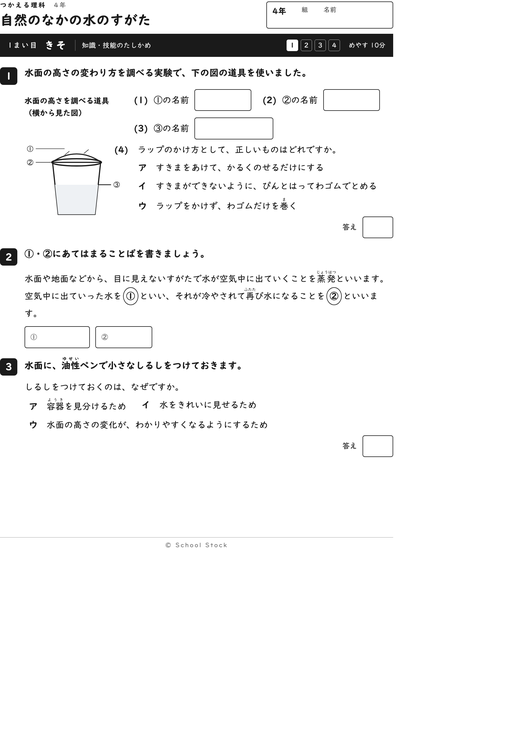
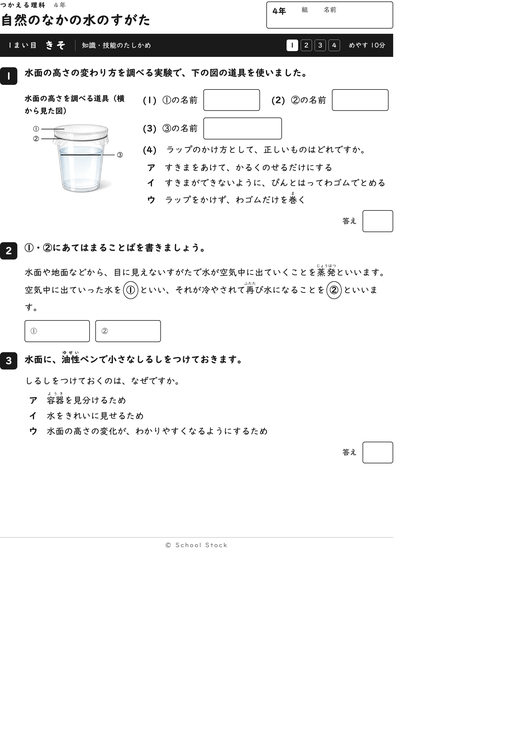
つかえる棚に9単元を追加しました（全65単元から74単元へ）
つかえる算数3年に「表とグラフ」を、つかえる国語4年に8単元を追加しました。
国語4年は、読むこと、書くこと、話すこと・聞くこと、言葉のきまりの順に
ならべています。教科書の教材名は使わず、学習指導要領の指導事項から
単元を立てています。
あわせて、図を直した14単元のサムネイルを差しかえました。

diff --git a/prints/tsukaeru/index.html b/prints/tsukaeru/index.html
@@ -167,9 +167,9 @@
       <div class="step"><span class="sn">4</span><b>あらわす</b><small>誤答の分析と、指定語句をつかった記述。</small></div>
     </div>
     <div class="meta">
-      <span><b>全65単元</b>（各4まい＋解答4枚・計8枚）</span>
-      <span>算数 25（3年 3／4年 13／5年 8／6年 1）</span>
-      <span>国語 7（1年 1／2年 1／3年 1／4年 2／5年 1／6年 1）</span>
+      <span><b>全74単元</b>（各4まい＋解答4枚・計8枚）</span>
+      <span>算数 26（3年 4／4年 13／5年 8／6年 1）</span>
+      <span>国語 15（1年 1／2年 1／3年 1／4年 10／5年 1／6年 1）</span>
       <span>理科 9（3年 1／4年 6／5年 2）</span>
       <span>社会 8（4年 4／5年 4・先生向け資料編つき）</span>
       <span>数学 16（中3 8／中2 5／中1 3）</span>
@@ -186,13 +186,13 @@
       <span class="fl">学年</span>
       <button class="fbtn on" data-band="all">すべて</button><button class="fbtn" data-band="g1">1年</button><button class="fbtn" data-band="g2">2年</button><button class="fbtn" data-band="g3">3年</button><button class="fbtn" data-band="g4">4年</button><button class="fbtn" data-band="g5">5年</button><button class="fbtn" data-band="g6">6年</button><button class="fbtn" data-band="c1">中1</button><button class="fbtn" data-band="c2">中2</button><button class="fbtn" data-band="c3">中3</button>
     </div>
-    <p class="count"><b id="shown">65</b> 単元を表示中</p>
+    <p class="count"><b id="shown">74</b> 単元を表示中</p>
   </div>
 
   <section data-sec id="sec-sansu-g3">
     <div class="sec-head"><span class="sec-no">01</span><span class="sec-label">MATH</span></div>
     <h2>つかえる算数　3年</h2>
-    <p class="sec-note"><span class="cnt">全3単元</span>　啓林館の配当順（長さ→あまりのあるわり算→重さ）。長さと重さは、地図やはかりの図から読み取る形にしています。</p>
+    <p class="sec-note"><span class="cnt">全4単元</span>　啓林館の配当順にならべています。長さと重さは地図やはかりの図から、表とグラフは二次元の表から読み取る形にしています。</p>
     <div class="secdl"><span class="lab">この学年をまい目ごとに</span><a href="/School_Stock_files/prints/tsukaeru/pdf/tsukaeru_sansu_g3_mai1.pdf" download>1まい目だけ</a><a href="/School_Stock_files/prints/tsukaeru/pdf/tsukaeru_sansu_g3_mai2.pdf" download>2まい目だけ</a><a href="/School_Stock_files/prints/tsukaeru/pdf/tsukaeru_sansu_g3_mai3.pdf" download>3まい目だけ</a><a href="/School_Stock_files/prints/tsukaeru/pdf/tsukaeru_sansu_g3_mai4.pdf" download>4まい目だけ</a><small>その学年の全単元の◯まい目を、問題＋解答の順に1本にまとめたものです。</small></div>
     <div class="grid">
 <div class="card" data-subj="sansu" data-band="g3" data-hay="長さ まきじゃく km 道のり きょり 地図 3年 つかえる算数">
@@ -217,6 +217,18 @@
       <a class="dl" href="/School_Stock_files/prints/tsukaeru/pdf/tsukaeru_s3_amari.pdf" download><svg viewBox="0 0 17 17" fill="none" aria-hidden="true"><path d="M8.5 2v8m0 0L5 6.7M8.5 10l3.5-3.3M2.5 13.5h12" stroke="currentColor" stroke-width="2" stroke-linecap="round" stroke-linejoin="round"/></svg>全部</a>
     </div>
 <div class="dls"><span class="lab">分けて</span><a href="/School_Stock_files/prints/tsukaeru/pdf/tsukaeru_s3_amari_mondai.pdf" download title="問題面4枚">問題だけ</a><a href="/School_Stock_files/prints/tsukaeru/pdf/tsukaeru_s3_amari_kotae.pdf" download title="解答面4枚">解答だけ</a><span class="sep"></span><span class="lab">まい目</span><a href="/School_Stock_files/prints/tsukaeru/pdf/tsukaeru_s3_amari_m1.pdf" download title="1まい目（問題＋解答の2枚）">1</a><a href="/School_Stock_files/prints/tsukaeru/pdf/tsukaeru_s3_amari_m2.pdf" download title="2まい目（問題＋解答の2枚）">2</a><a href="/School_Stock_files/prints/tsukaeru/pdf/tsukaeru_s3_amari_m3.pdf" download title="3まい目（問題＋解答の2枚）">3</a><a href="/School_Stock_files/prints/tsukaeru/pdf/tsukaeru_s3_amari_m4.pdf" download title="4まい目（問題＋解答の2枚）">4</a></div>
+  </div>
+</div>
+<div class="card" data-subj="sansu" data-band="g3" data-hay="表とグラフ 二次元の表 ぼうグラフ 目もり 合計 整理 3年 つかえる算数">
+  <a class="th" href="/School_Stock_files/prints/tsukaeru/pdf/tsukaeru_s3_hyougraph.pdf"><div class="thumb"><img loading="lazy" src="thumb/tsukaeru_s3_hyougraph.png" alt="表とグラフ"></div></a>
+  <div class="b">
+    <div class="tags"><span class="tag type">算数 3年</span><span class="tag">表・ぼうグラフ</span></div>
+    <a class="tt" href="/School_Stock_files/prints/tsukaeru/pdf/tsukaeru_s3_hyougraph.pdf">表とグラフ</a>
+    <div class="acts">
+      <span class="more">4まい＋解答（8枚）</span>
+      <a class="dl" href="/School_Stock_files/prints/tsukaeru/pdf/tsukaeru_s3_hyougraph.pdf" download><svg viewBox="0 0 17 17" fill="none" aria-hidden="true"><path d="M8.5 2v8m0 0L5 6.7M8.5 10l3.5-3.3M2.5 13.5h12" stroke="currentColor" stroke-width="2" stroke-linecap="round" stroke-linejoin="round"/></svg>全部</a>
+    </div>
+<div class="dls"><span class="lab">分けて</span><a href="/School_Stock_files/prints/tsukaeru/pdf/tsukaeru_s3_hyougraph_mondai.pdf" download title="問題面4枚">問題だけ</a><a href="/School_Stock_files/prints/tsukaeru/pdf/tsukaeru_s3_hyougraph_kotae.pdf" download title="解答面4枚">解答だけ</a><span class="sep"></span><span class="lab">まい目</span><a href="/School_Stock_files/prints/tsukaeru/pdf/tsukaeru_s3_hyougraph_m1.pdf" download title="1まい目（問題＋解答の2枚）">1</a><a href="/School_Stock_files/prints/tsukaeru/pdf/tsukaeru_s3_hyougraph_m2.pdf" download title="2まい目（問題＋解答の2枚）">2</a><a href="/School_Stock_files/prints/tsukaeru/pdf/tsukaeru_s3_hyougraph_m3.pdf" download title="3まい目（問題＋解答の2枚）">3</a><a href="/School_Stock_files/prints/tsukaeru/pdf/tsukaeru_s3_hyougraph_m4.pdf" download title="4まい目（問題＋解答の2枚）">4</a></div>
   </div>
 </div>
 <div class="card" data-subj="sansu" data-band="g3" data-hay="重さ はかり g kg t 目もり ランドセル 3年 つかえる算数">
@@ -584,7 +596,7 @@
   <section data-sec id="sec-kokugo-g4">
     <div class="sec-head"><span class="sec-no">08</span><span class="sec-label">JAPANESE</span></div>
     <h2>つかえる国語　4年</h2>
-    <p class="sec-note"><span class="cnt">全2単元</span>　考えと、それを支える理由や事例のつながりを読みます。中心となる語や文を見つけて要約するところまで。</p>
+    <p class="sec-note"><span class="cnt">全10単元</span>　読むこと、書くこと、話すこと・聞くこと、言葉のきまりの順にならべています。教科書の教材名は使わず、学習指導要領の指導事項から単元を立てています。</p>
     <div class="secdl"><span class="lab">この学年をまい目ごとに</span><a href="/School_Stock_files/prints/tsukaeru/pdf/tsukaeru_kokugo_g4_mai1.pdf" download>1まい目だけ</a><a href="/School_Stock_files/prints/tsukaeru/pdf/tsukaeru_kokugo_g4_mai2.pdf" download>2まい目だけ</a><a href="/School_Stock_files/prints/tsukaeru/pdf/tsukaeru_kokugo_g4_mai3.pdf" download>3まい目だけ</a><a href="/School_Stock_files/prints/tsukaeru/pdf/tsukaeru_kokugo_g4_mai4.pdf" download>4まい目だけ</a><small>その学年の全単元の◯まい目を、問題＋解答の順に1本にまとめたものです。</small></div>
     <div class="grid">
 <div class="card" data-subj="kokugo" data-band="g4" data-hay="理由や事例をとらえる なぜなら たとえば 発表原こう 4年 つかえる国語">
@@ -609,6 +621,102 @@
       <a class="dl" href="/School_Stock_files/prints/tsukaeru/pdf/tsukaeru_k4_youyaku.pdf" download><svg viewBox="0 0 17 17" fill="none" aria-hidden="true"><path d="M8.5 2v8m0 0L5 6.7M8.5 10l3.5-3.3M2.5 13.5h12" stroke="currentColor" stroke-width="2" stroke-linecap="round" stroke-linejoin="round"/></svg>全部</a>
     </div>
 <div class="dls"><span class="lab">分けて</span><a href="/School_Stock_files/prints/tsukaeru/pdf/tsukaeru_k4_youyaku_mondai.pdf" download title="問題面4枚">問題だけ</a><a href="/School_Stock_files/prints/tsukaeru/pdf/tsukaeru_k4_youyaku_kotae.pdf" download title="解答面4枚">解答だけ</a><span class="sep"></span><span class="lab">まい目</span><a href="/School_Stock_files/prints/tsukaeru/pdf/tsukaeru_k4_youyaku_m1.pdf" download title="1まい目（問題＋解答の2枚）">1</a><a href="/School_Stock_files/prints/tsukaeru/pdf/tsukaeru_k4_youyaku_m2.pdf" download title="2まい目（問題＋解答の2枚）">2</a><a href="/School_Stock_files/prints/tsukaeru/pdf/tsukaeru_k4_youyaku_m3.pdf" download title="3まい目（問題＋解答の2枚）">3</a><a href="/School_Stock_files/prints/tsukaeru/pdf/tsukaeru_k4_youyaku_m4.pdf" download title="4まい目（問題＋解答の2枚）">4</a></div>
+  </div>
+</div>
+<div class="card" data-subj="kokugo" data-band="g4" data-hay="だんらくのつながりをとらえる 段落 はじめ 中 おわり 組み立て表 説明文 4年 つかえる国語">
+  <a class="th" href="/School_Stock_files/prints/tsukaeru/pdf/tsukaeru_k4_danraku.pdf"><div class="thumb"><img loading="lazy" src="thumb/tsukaeru_k4_danraku.png" alt="だんらくのつながりをとらえる"></div></a>
+  <div class="b">
+    <div class="tags"><span class="tag type">国語 4年</span><span class="tag">段落の関係</span></div>
+    <a class="tt" href="/School_Stock_files/prints/tsukaeru/pdf/tsukaeru_k4_danraku.pdf">だんらくのつながりをとらえる</a>
+    <div class="acts">
+      <span class="more">4まい＋解答（8枚）</span>
+      <a class="dl" href="/School_Stock_files/prints/tsukaeru/pdf/tsukaeru_k4_danraku.pdf" download><svg viewBox="0 0 17 17" fill="none" aria-hidden="true"><path d="M8.5 2v8m0 0L5 6.7M8.5 10l3.5-3.3M2.5 13.5h12" stroke="currentColor" stroke-width="2" stroke-linecap="round" stroke-linejoin="round"/></svg>全部</a>
+    </div>
+<div class="dls"><span class="lab">分けて</span><a href="/School_Stock_files/prints/tsukaeru/pdf/tsukaeru_k4_danraku_mondai.pdf" download title="問題面4枚">問題だけ</a><a href="/School_Stock_files/prints/tsukaeru/pdf/tsukaeru_k4_danraku_kotae.pdf" download title="解答面4枚">解答だけ</a><span class="sep"></span><span class="lab">まい目</span><a href="/School_Stock_files/prints/tsukaeru/pdf/tsukaeru_k4_danraku_m1.pdf" download title="1まい目（問題＋解答の2枚）">1</a><a href="/School_Stock_files/prints/tsukaeru/pdf/tsukaeru_k4_danraku_m2.pdf" download title="2まい目（問題＋解答の2枚）">2</a><a href="/School_Stock_files/prints/tsukaeru/pdf/tsukaeru_k4_danraku_m3.pdf" download title="3まい目（問題＋解答の2枚）">3</a><a href="/School_Stock_files/prints/tsukaeru/pdf/tsukaeru_k4_danraku_m4.pdf" download title="4まい目（問題＋解答の2枚）">4</a></div>
+  </div>
+</div>
+<div class="card" data-subj="kokugo" data-band="g4" data-hay="行動や様子から気持ちを読む 気持ち 情景 人物 物語 変化 4年 つかえる国語">
+  <a class="th" href="/School_Stock_files/prints/tsukaeru/pdf/tsukaeru_k4_kimochi.pdf"><div class="thumb"><img loading="lazy" src="thumb/tsukaeru_k4_kimochi.png" alt="行動や様子から気持ちを読む"></div></a>
+  <div class="b">
+    <div class="tags"><span class="tag type">国語 4年</span><span class="tag">気持ち・情景</span></div>
+    <a class="tt" href="/School_Stock_files/prints/tsukaeru/pdf/tsukaeru_k4_kimochi.pdf">行動や様子から気持ちを読む</a>
+    <div class="acts">
+      <span class="more">4まい＋解答（8枚）</span>
+      <a class="dl" href="/School_Stock_files/prints/tsukaeru/pdf/tsukaeru_k4_kimochi.pdf" download><svg viewBox="0 0 17 17" fill="none" aria-hidden="true"><path d="M8.5 2v8m0 0L5 6.7M8.5 10l3.5-3.3M2.5 13.5h12" stroke="currentColor" stroke-width="2" stroke-linecap="round" stroke-linejoin="round"/></svg>全部</a>
+    </div>
+<div class="dls"><span class="lab">分けて</span><a href="/School_Stock_files/prints/tsukaeru/pdf/tsukaeru_k4_kimochi_mondai.pdf" download title="問題面4枚">問題だけ</a><a href="/School_Stock_files/prints/tsukaeru/pdf/tsukaeru_k4_kimochi_kotae.pdf" download title="解答面4枚">解答だけ</a><span class="sep"></span><span class="lab">まい目</span><a href="/School_Stock_files/prints/tsukaeru/pdf/tsukaeru_k4_kimochi_m1.pdf" download title="1まい目（問題＋解答の2枚）">1</a><a href="/School_Stock_files/prints/tsukaeru/pdf/tsukaeru_k4_kimochi_m2.pdf" download title="2まい目（問題＋解答の2枚）">2</a><a href="/School_Stock_files/prints/tsukaeru/pdf/tsukaeru_k4_kimochi_m3.pdf" download title="3まい目（問題＋解答の2枚）">3</a><a href="/School_Stock_files/prints/tsukaeru/pdf/tsukaeru_k4_kimochi_m4.pdf" download title="4まい目（問題＋解答の2枚）">4</a></div>
+  </div>
+</div>
+<div class="card" data-subj="kokugo" data-band="g4" data-hay="相手や目的に合わせて手紙を書く 手紙 お礼 下書き 推こう ていねいな言い方 4年 つかえる国語">
+  <a class="th" href="/School_Stock_files/prints/tsukaeru/pdf/tsukaeru_k4_tegami.pdf"><div class="thumb"><img loading="lazy" src="thumb/tsukaeru_k4_tegami.png" alt="相手や目的に合わせて手紙を書く"></div></a>
+  <div class="b">
+    <div class="tags"><span class="tag type">国語 4年</span><span class="tag">手紙・推こう</span></div>
+    <a class="tt" href="/School_Stock_files/prints/tsukaeru/pdf/tsukaeru_k4_tegami.pdf">相手や目的に合わせて手紙を書く</a>
+    <div class="acts">
+      <span class="more">4まい＋解答（8枚）</span>
+      <a class="dl" href="/School_Stock_files/prints/tsukaeru/pdf/tsukaeru_k4_tegami.pdf" download><svg viewBox="0 0 17 17" fill="none" aria-hidden="true"><path d="M8.5 2v8m0 0L5 6.7M8.5 10l3.5-3.3M2.5 13.5h12" stroke="currentColor" stroke-width="2" stroke-linecap="round" stroke-linejoin="round"/></svg>全部</a>
+    </div>
+<div class="dls"><span class="lab">分けて</span><a href="/School_Stock_files/prints/tsukaeru/pdf/tsukaeru_k4_tegami_mondai.pdf" download title="問題面4枚">問題だけ</a><a href="/School_Stock_files/prints/tsukaeru/pdf/tsukaeru_k4_tegami_kotae.pdf" download title="解答面4枚">解答だけ</a><span class="sep"></span><span class="lab">まい目</span><a href="/School_Stock_files/prints/tsukaeru/pdf/tsukaeru_k4_tegami_m1.pdf" download title="1まい目（問題＋解答の2枚）">1</a><a href="/School_Stock_files/prints/tsukaeru/pdf/tsukaeru_k4_tegami_m2.pdf" download title="2まい目（問題＋解答の2枚）">2</a><a href="/School_Stock_files/prints/tsukaeru/pdf/tsukaeru_k4_tegami_m3.pdf" download title="3まい目（問題＋解答の2枚）">3</a><a href="/School_Stock_files/prints/tsukaeru/pdf/tsukaeru_k4_tegami_m4.pdf" download title="4まい目（問題＋解答の2枚）">4</a></div>
+  </div>
+</div>
+<div class="card" data-subj="kokugo" data-band="g4" data-hay="理由をたしかめて意見を書く 意見文 理由 根きょ アンケート 4年 つかえる国語">
+  <a class="th" href="/School_Stock_files/prints/tsukaeru/pdf/tsukaeru_k4_iken.pdf"><div class="thumb"><img loading="lazy" src="thumb/tsukaeru_k4_iken.png" alt="理由をたしかめて意見を書く"></div></a>
+  <div class="b">
+    <div class="tags"><span class="tag type">国語 4年</span><span class="tag">意見文・理由</span></div>
+    <a class="tt" href="/School_Stock_files/prints/tsukaeru/pdf/tsukaeru_k4_iken.pdf">理由をたしかめて意見を書く</a>
+    <div class="acts">
+      <span class="more">4まい＋解答（8枚）</span>
+      <a class="dl" href="/School_Stock_files/prints/tsukaeru/pdf/tsukaeru_k4_iken.pdf" download><svg viewBox="0 0 17 17" fill="none" aria-hidden="true"><path d="M8.5 2v8m0 0L5 6.7M8.5 10l3.5-3.3M2.5 13.5h12" stroke="currentColor" stroke-width="2" stroke-linecap="round" stroke-linejoin="round"/></svg>全部</a>
+    </div>
+<div class="dls"><span class="lab">分けて</span><a href="/School_Stock_files/prints/tsukaeru/pdf/tsukaeru_k4_iken_mondai.pdf" download title="問題面4枚">問題だけ</a><a href="/School_Stock_files/prints/tsukaeru/pdf/tsukaeru_k4_iken_kotae.pdf" download title="解答面4枚">解答だけ</a><span class="sep"></span><span class="lab">まい目</span><a href="/School_Stock_files/prints/tsukaeru/pdf/tsukaeru_k4_iken_m1.pdf" download title="1まい目（問題＋解答の2枚）">1</a><a href="/School_Stock_files/prints/tsukaeru/pdf/tsukaeru_k4_iken_m2.pdf" download title="2まい目（問題＋解答の2枚）">2</a><a href="/School_Stock_files/prints/tsukaeru/pdf/tsukaeru_k4_iken_m3.pdf" download title="3まい目（問題＋解答の2枚）">3</a><a href="/School_Stock_files/prints/tsukaeru/pdf/tsukaeru_k4_iken_m4.pdf" download title="4まい目（問題＋解答の2枚）">4</a></div>
+  </div>
+</div>
+<div class="card" data-subj="kokugo" data-band="g4" data-hay="話し合って考えをまとめる 話し合い 共通点 相違点 司会 整理表 4年 つかえる国語">
+  <a class="th" href="/School_Stock_files/prints/tsukaeru/pdf/tsukaeru_k4_hanashi.pdf"><div class="thumb"><img loading="lazy" src="thumb/tsukaeru_k4_hanashi.png" alt="話し合って考えをまとめる"></div></a>
+  <div class="b">
+    <div class="tags"><span class="tag type">国語 4年</span><span class="tag">話し合い</span></div>
+    <a class="tt" href="/School_Stock_files/prints/tsukaeru/pdf/tsukaeru_k4_hanashi.pdf">話し合って考えをまとめる</a>
+    <div class="acts">
+      <span class="more">4まい＋解答（8枚）</span>
+      <a class="dl" href="/School_Stock_files/prints/tsukaeru/pdf/tsukaeru_k4_hanashi.pdf" download><svg viewBox="0 0 17 17" fill="none" aria-hidden="true"><path d="M8.5 2v8m0 0L5 6.7M8.5 10l3.5-3.3M2.5 13.5h12" stroke="currentColor" stroke-width="2" stroke-linecap="round" stroke-linejoin="round"/></svg>全部</a>
+    </div>
+<div class="dls"><span class="lab">分けて</span><a href="/School_Stock_files/prints/tsukaeru/pdf/tsukaeru_k4_hanashi_mondai.pdf" download title="問題面4枚">問題だけ</a><a href="/School_Stock_files/prints/tsukaeru/pdf/tsukaeru_k4_hanashi_kotae.pdf" download title="解答面4枚">解答だけ</a><span class="sep"></span><span class="lab">まい目</span><a href="/School_Stock_files/prints/tsukaeru/pdf/tsukaeru_k4_hanashi_m1.pdf" download title="1まい目（問題＋解答の2枚）">1</a><a href="/School_Stock_files/prints/tsukaeru/pdf/tsukaeru_k4_hanashi_m2.pdf" download title="2まい目（問題＋解答の2枚）">2</a><a href="/School_Stock_files/prints/tsukaeru/pdf/tsukaeru_k4_hanashi_m3.pdf" download title="3まい目（問題＋解答の2枚）">3</a><a href="/School_Stock_files/prints/tsukaeru/pdf/tsukaeru_k4_hanashi_m4.pdf" download title="4まい目（問題＋解答の2枚）">4</a></div>
+  </div>
+</div>
+<div class="card" data-subj="kokugo" data-band="g4" data-hay="資料を見せて報告する 発表 報告 資料 二次元の表 構成 4年 つかえる国語">
+  <a class="th" href="/School_Stock_files/prints/tsukaeru/pdf/tsukaeru_k4_houkoku.pdf"><div class="thumb"><img loading="lazy" src="thumb/tsukaeru_k4_houkoku.png" alt="資料を見せて報告する"></div></a>
+  <div class="b">
+    <div class="tags"><span class="tag type">国語 4年</span><span class="tag">発表・資料</span></div>
+    <a class="tt" href="/School_Stock_files/prints/tsukaeru/pdf/tsukaeru_k4_houkoku.pdf">資料を見せて報告する</a>
+    <div class="acts">
+      <span class="more">4まい＋解答（8枚）</span>
+      <a class="dl" href="/School_Stock_files/prints/tsukaeru/pdf/tsukaeru_k4_houkoku.pdf" download><svg viewBox="0 0 17 17" fill="none" aria-hidden="true"><path d="M8.5 2v8m0 0L5 6.7M8.5 10l3.5-3.3M2.5 13.5h12" stroke="currentColor" stroke-width="2" stroke-linecap="round" stroke-linejoin="round"/></svg>全部</a>
+    </div>
+<div class="dls"><span class="lab">分けて</span><a href="/School_Stock_files/prints/tsukaeru/pdf/tsukaeru_k4_houkoku_mondai.pdf" download title="問題面4枚">問題だけ</a><a href="/School_Stock_files/prints/tsukaeru/pdf/tsukaeru_k4_houkoku_kotae.pdf" download title="解答面4枚">解答だけ</a><span class="sep"></span><span class="lab">まい目</span><a href="/School_Stock_files/prints/tsukaeru/pdf/tsukaeru_k4_houkoku_m1.pdf" download title="1まい目（問題＋解答の2枚）">1</a><a href="/School_Stock_files/prints/tsukaeru/pdf/tsukaeru_k4_houkoku_m2.pdf" download title="2まい目（問題＋解答の2枚）">2</a><a href="/School_Stock_files/prints/tsukaeru/pdf/tsukaeru_k4_houkoku_m3.pdf" download title="3まい目（問題＋解答の2枚）">3</a><a href="/School_Stock_files/prints/tsukaeru/pdf/tsukaeru_k4_houkoku_m4.pdf" download title="4まい目（問題＋解答の2枚）">4</a></div>
+  </div>
+</div>
+<div class="card" data-subj="kokugo" data-band="g4" data-hay="くらべて分ける 比べる 分ける 分類 観点 調べ表 4年 つかえる国語">
+  <a class="th" href="/School_Stock_files/prints/tsukaeru/pdf/tsukaeru_k4_bunrui.pdf"><div class="thumb"><img loading="lazy" src="thumb/tsukaeru_k4_bunrui.png" alt="くらべて分ける"></div></a>
+  <div class="b">
+    <div class="tags"><span class="tag type">国語 4年</span><span class="tag">比較・分類</span></div>
+    <a class="tt" href="/School_Stock_files/prints/tsukaeru/pdf/tsukaeru_k4_bunrui.pdf">くらべて分ける</a>
+    <div class="acts">
+      <span class="more">4まい＋解答（8枚）</span>
+      <a class="dl" href="/School_Stock_files/prints/tsukaeru/pdf/tsukaeru_k4_bunrui.pdf" download><svg viewBox="0 0 17 17" fill="none" aria-hidden="true"><path d="M8.5 2v8m0 0L5 6.7M8.5 10l3.5-3.3M2.5 13.5h12" stroke="currentColor" stroke-width="2" stroke-linecap="round" stroke-linejoin="round"/></svg>全部</a>
+    </div>
+<div class="dls"><span class="lab">分けて</span><a href="/School_Stock_files/prints/tsukaeru/pdf/tsukaeru_k4_bunrui_mondai.pdf" download title="問題面4枚">問題だけ</a><a href="/School_Stock_files/prints/tsukaeru/pdf/tsukaeru_k4_bunrui_kotae.pdf" download title="解答面4枚">解答だけ</a><span class="sep"></span><span class="lab">まい目</span><a href="/School_Stock_files/prints/tsukaeru/pdf/tsukaeru_k4_bunrui_m1.pdf" download title="1まい目（問題＋解答の2枚）">1</a><a href="/School_Stock_files/prints/tsukaeru/pdf/tsukaeru_k4_bunrui_m2.pdf" download title="2まい目（問題＋解答の2枚）">2</a><a href="/School_Stock_files/prints/tsukaeru/pdf/tsukaeru_k4_bunrui_m3.pdf" download title="3まい目（問題＋解答の2枚）">3</a><a href="/School_Stock_files/prints/tsukaeru/pdf/tsukaeru_k4_bunrui_m4.pdf" download title="4まい目（問題＋解答の2枚）">4</a></div>
+  </div>
+</div>
+<div class="card" data-subj="kokugo" data-band="g4" data-hay="つなぐ言葉と指し示す言葉 つなぎ言葉 接続語 こそあど 指示語 4年 つかえる国語">
+  <a class="th" href="/School_Stock_files/prints/tsukaeru/pdf/tsukaeru_k4_tsunagu.pdf"><div class="thumb"><img loading="lazy" src="thumb/tsukaeru_k4_tsunagu.png" alt="つなぐ言葉と指し示す言葉"></div></a>
+  <div class="b">
+    <div class="tags"><span class="tag type">国語 4年</span><span class="tag">接続語・指示語</span></div>
+    <a class="tt" href="/School_Stock_files/prints/tsukaeru/pdf/tsukaeru_k4_tsunagu.pdf">つなぐ言葉と指し示す言葉</a>
+    <div class="acts">
+      <span class="more">4まい＋解答（8枚）</span>
+      <a class="dl" href="/School_Stock_files/prints/tsukaeru/pdf/tsukaeru_k4_tsunagu.pdf" download><svg viewBox="0 0 17 17" fill="none" aria-hidden="true"><path d="M8.5 2v8m0 0L5 6.7M8.5 10l3.5-3.3M2.5 13.5h12" stroke="currentColor" stroke-width="2" stroke-linecap="round" stroke-linejoin="round"/></svg>全部</a>
+    </div>
+<div class="dls"><span class="lab">分けて</span><a href="/School_Stock_files/prints/tsukaeru/pdf/tsukaeru_k4_tsunagu_mondai.pdf" download title="問題面4枚">問題だけ</a><a href="/School_Stock_files/prints/tsukaeru/pdf/tsukaeru_k4_tsunagu_kotae.pdf" download title="解答面4枚">解答だけ</a><span class="sep"></span><span class="lab">まい目</span><a href="/School_Stock_files/prints/tsukaeru/pdf/tsukaeru_k4_tsunagu_m1.pdf" download title="1まい目（問題＋解答の2枚）">1</a><a href="/School_Stock_files/prints/tsukaeru/pdf/tsukaeru_k4_tsunagu_m2.pdf" download title="2まい目（問題＋解答の2枚）">2</a><a href="/School_Stock_files/prints/tsukaeru/pdf/tsukaeru_k4_tsunagu_m3.pdf" download title="3まい目（問題＋解答の2枚）">3</a><a href="/School_Stock_files/prints/tsukaeru/pdf/tsukaeru_k4_tsunagu_m4.pdf" download title="4まい目（問題＋解答の2枚）">4</a></div>
   </div>
 </div>
     </div>
